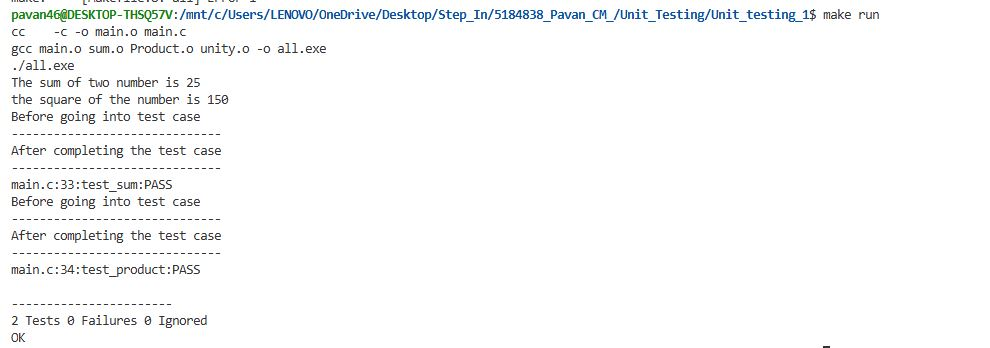
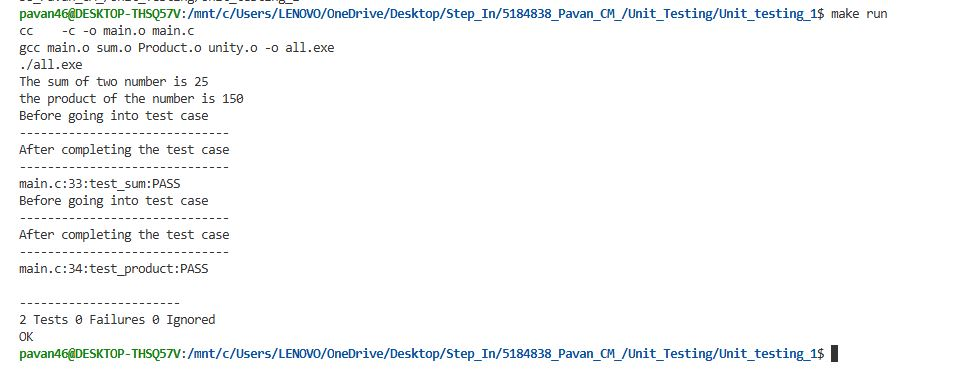
Added first testcase of Unit testing

Changed region(s): [[0.0, 0.0, 0.9202, 0.6322], [0.0, 0.7471, 0.8589, 0.977], [0.0, 0.6609, 0.2454, 0.7184]]

diff --git a/Unit_Testing/Unit_testing_1/main.c b/Unit_Testing/Unit_testing_1/main.c
@@ -26,7 +26,7 @@ int main(){
     c=sum(a,b);
     printf("The sum of two number is %d\n",c);
     c=multiply(a,b);
-    printf("the square of the number is %d\n",c);
+    printf("the product of the number is %d\n",c);
 
 
     UNITY_BEGIN();
